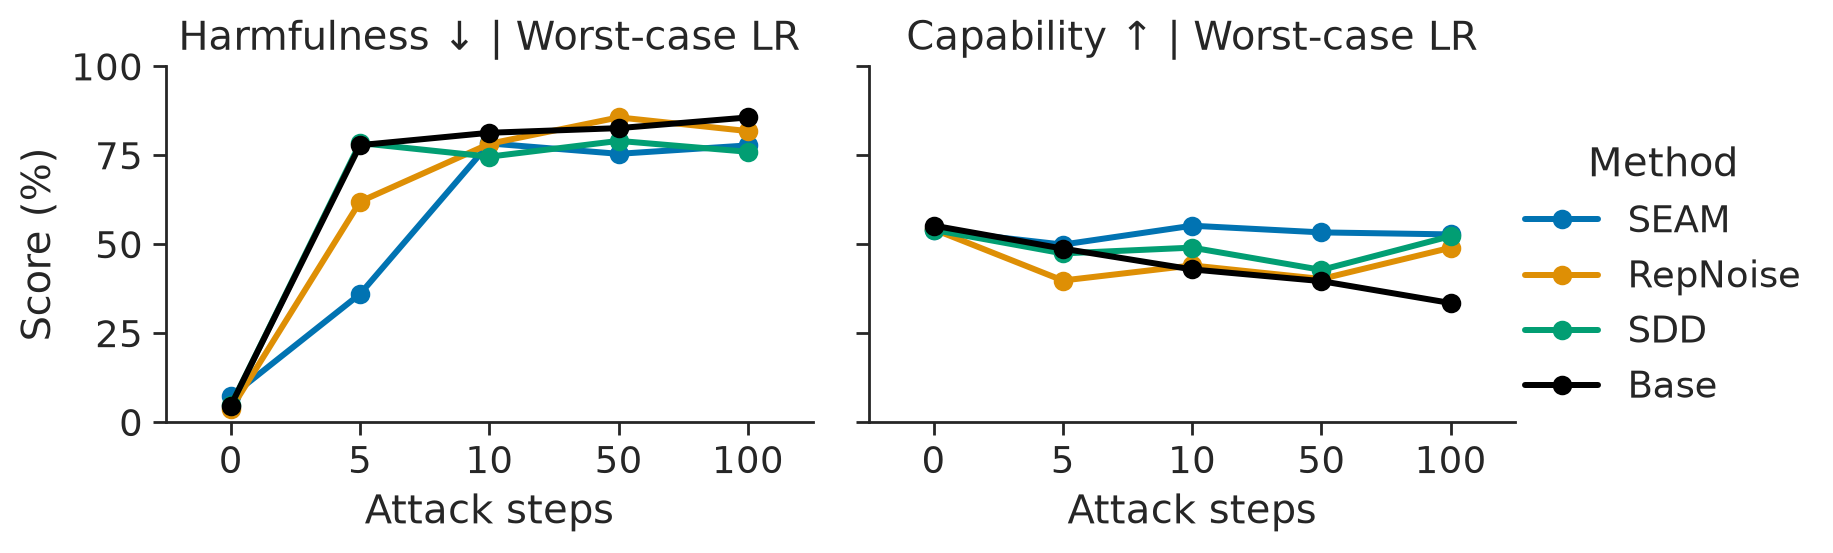
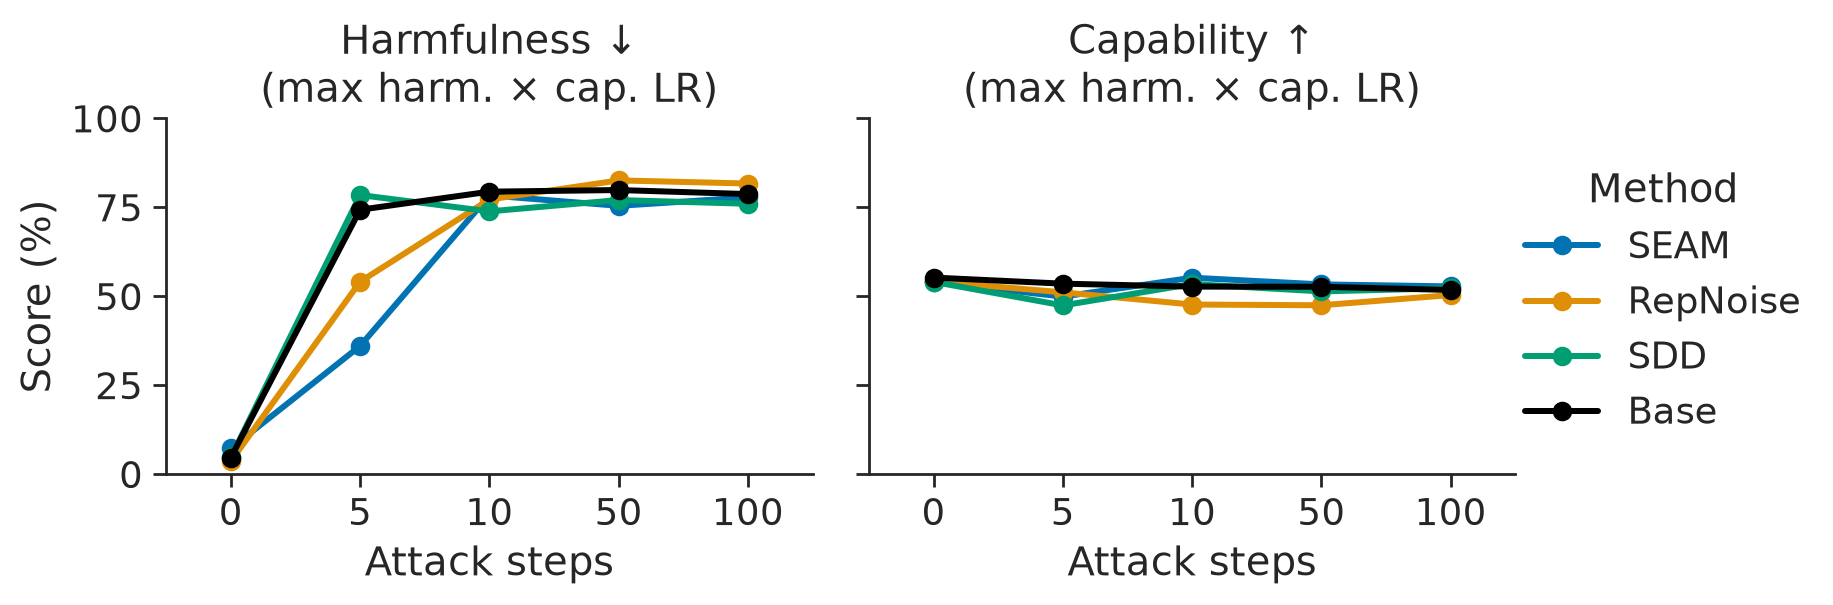
Select worst-case LR by effective harmfulness

diff --git a/scripts/misc/plot_seam_repnoise_trajectory.py b/scripts/misc/plot_seam_repnoise_trajectory.py
@@ -104,9 +104,18 @@ if __name__ == "__main__":
         bbox_inches="tight",
     )
 
-    harmfulness = df[df["Eval"] == "Harmfulness ↓"]
-    worst_lrs = harmfulness.loc[
-        harmfulness.groupby(["Method", "Attack steps"])["Score (%)"].idxmax(),
+    attack_scores = df.pivot(
+        index=["Method", "LR", "Attack steps"],
+        columns="Eval",
+        values="Score (%)",
+    ).reset_index()
+    attack_scores["Attack score"] = (
+        attack_scores["Harmfulness ↓"] * attack_scores["Capability ↑"]
+    )
+    worst_lrs = attack_scores.loc[
+        attack_scores.groupby(["Method", "Attack steps"])[
+            "Attack score"
+        ].idxmax(),
         ["Method", "Attack steps", "LR"],
     ]
     worst_case = df.merge(
@@ -129,7 +138,7 @@ if __name__ == "__main__":
     )
     grid.set(ylim=(0, 100))
     grid.set_axis_labels("Attack steps", "Score (%)")
-    grid.set_titles("{col_name} | Worst-case LR")
+    grid.set_titles("{col_name}\n(max harm. × cap. LR)")
     grid.figure.savefig(
         "artifacts/figures/llama2-7b--worst-case-lr-trajectory.pdf",
         bbox_inches="tight",
